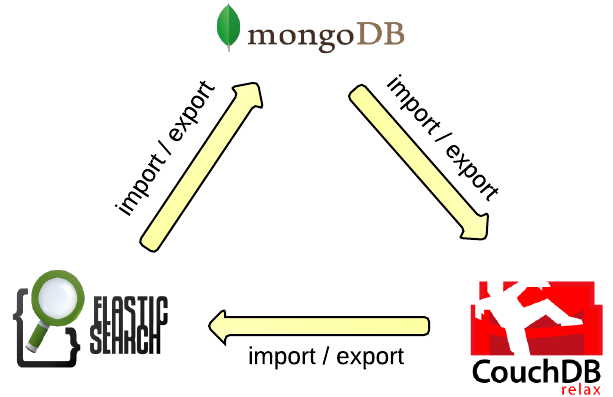
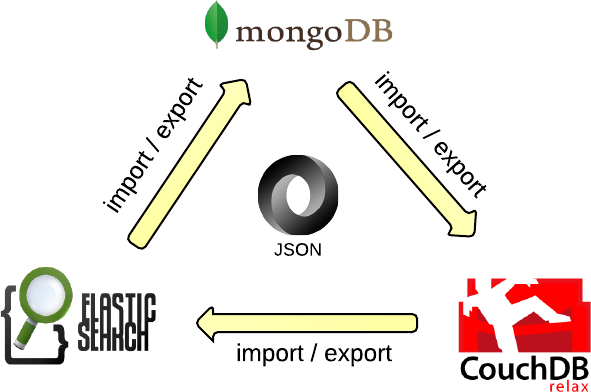
Poprawki w Zadaniach.

diff --git a/lib/public/stylesheets/application.css b/lib/public/stylesheets/application.css
@@ -257,6 +257,16 @@ tbody tr:nth-child(even) td, tbody tr.even td {
   background: #F5E7FA;
 }
 
+table th {
+  font-style: italic;
+  font-weight: normal;
+  padding-left: 2em;
+}
+
+table, th, td {
+   vertical-align: top;
+}
+
 object {
   display: block;
   margin: 0 auto 1em auto;;

diff --git a/lib/views/zadania.md b/lib/views/zadania.md
@@ -21,15 +21,69 @@ Typowe zastosowania dokumentowych baz danych to:
 * Help/Reference Desk
 * CRM(?)
 
+Typowe zastosowania baz klucz-wartość to:
 
-## Zaczynamy
+* …
 
-A to co za zadanie?
+Typowe zastosowania grafowych baz danych to:
+
+* …
+
+
+## A to co za zadanie?
 
 {%= image_tag "/images/es-mongo-couch.png", :alt => "[ES - Mongo - Couch]" %}
 
+Zaczynamy od pobrania danych o pojawieniach się UFO w USA
+oraz o katastrofach:
 
-## CouchDB
+    git clone git://sigma.ug.edu.pl/~wbzyl/infochimps.git
+
+Dane pochodzą z serwisu [Infochimps](http://www.infochimps.com/).
+Dane o UFO zostały „cleaned up”. Dane są zapisane w formacie TSV.
+
+Zapisać dane w jednej z baz: Elasticsearch albo MongoDB, albo CouchDB.
+Następnie wyeksportować z tej bazy dane do pliku w formacie JSON.
+Na koniec zapisać dane w formacie w JSON w pozostałych dwóch bazach.
+
+### Krótkie informacje o danych
+
+Dane o UFO zawierają następujące pola:
+
+    DateOccurred, DateReported, Location, ShortDescription,
+    Duration, LongDescription, USCity, USState, YearMonth
+
+Dane z katastrofami zawierają następujące pola:
+
+<table>
+<colgroup>
+  <col width="150px">
+  <col width="450px">
+</colgroup>
+<tbody>
+<tr><th>Start      <td>The date which the disaster began
+<tr><th>End        <td>The date which the disaster ended
+<tr><th>Country    <td>Country(ies) in which the disaster has occurred
+<tr><th>Location   <td>A sub-location classification if available
+<tr><th>Type       <td>The type of disaster according to pre-defined classification
+                   (Geophysical, Meteorological, Hydrological, Climatological, Biological)
+<tr><th>Sub_Type   <td>Further classification of the type of disaster
+<tr><th>Name       <td>The name of the disaster if available
+<tr><th>Killed     <td>Persons confirmed as dead and persons missing and presumed dead
+                   (official figures when available)
+<tr><th>Affected   <td>Total of people injured, homeless, and affected. Where
+                   affected means people requiring immediate assistance during a period
+                   of emergency;it can also include displaced or evacuated people
+<tr><th>Cost       <td>Several institutions have developed methodologies to quantify
+                   these losses in their specific domain. However, there is no standard
+                   procedure to determine a global figure for economic impact. Estimated
+                   damage are given (000’)
+<tr><th>Id         <td>A unique identifier for the disaster
+</tbody>
+</table>
+
+
+<h2 class="clear">CouchDB</h2>
 
 <blockquote>
  <p>
@@ -56,13 +110,21 @@ Inne dokumenty mogą zawierać inne pola: *publisher*, *authors*, *title*.
 Napisać widok wyliczający ile i jakie pola zawarte są w dokumentach tej bazy.
 Niektóre pola są puste. Uwzględnić to w rachunkach.
 
-2\. Wizualizacja przykładowych danych.
+
+## Przykładowe wizualizacje
+
+* [twistori](http://twistori.com/#i_wish)
+
+
+# TODO
+
+1\. Wizualizacja przykładowych danych.
 Klasyczny przykład opisałem w „Generator przemówień i inne zastosowania…”.
 
-3\. [Anagram Finder](http://www.anagramfinder.net/).
+2\. [Anagram Finder](http://www.anagramfinder.net/).
 Dokumentacja [Anagram Finder: A Do-It-Yourself Little Big Data Project](http://www.databonanza.com/2011/09/anagram-finder-do-it-yourself-little.html). Napisać coś takiego w CouchDB? MongoDB?
 
-4\. **SQL & JSON**. [Yahoo! Query Language](http://developer.yahoo.com/yql/).
+2\. **SQL & JSON**. [Yahoo! Query Language](http://developer.yahoo.com/yql/).
 Zobacz przykłady Zillow, Yelp, Pidgets Geo IP – wybrać format JSON.
 
 [streaming twitter into mongodb](http://eliothorowitz.com/post/459890033/streaming-twitter-into-mongodb):
@@ -100,12 +162,6 @@ in a SQL dialect.
 
 4\. [Building a Twitter Filter With Sinatra, Redis, and
 TweetStream](http://www.digitalhobbit.com/2009/11/08/building-a-twitter-filter-with-sinatra-redis-and-tweetstream/).
-
-Przykłady:
-
-* [cursebird](http://cursebird.com/)
-* [twistori](http://twistori.com/#i_wish)
-* [twatcher](http://twatcher.com/)
 
 Linki:
 
